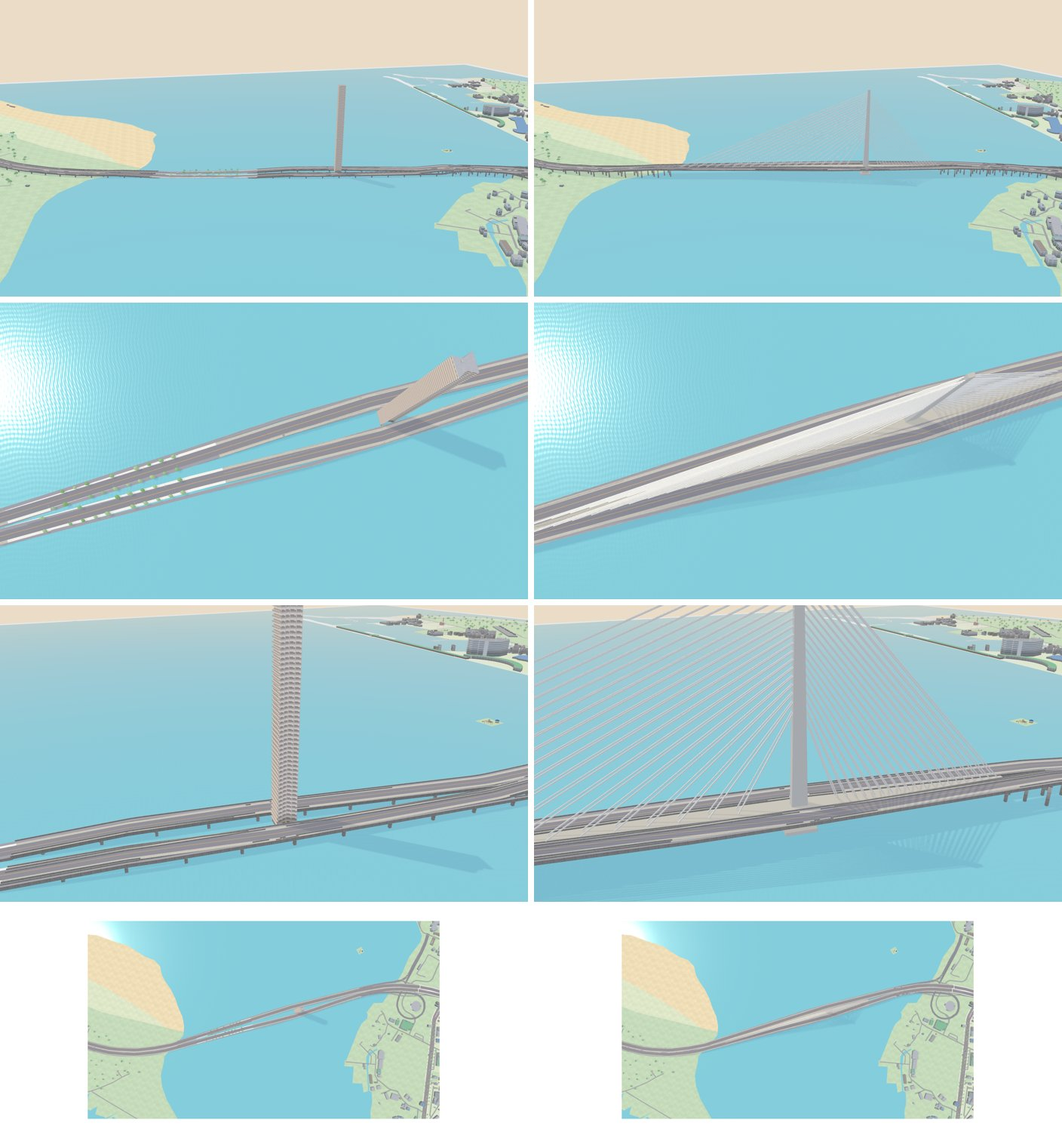
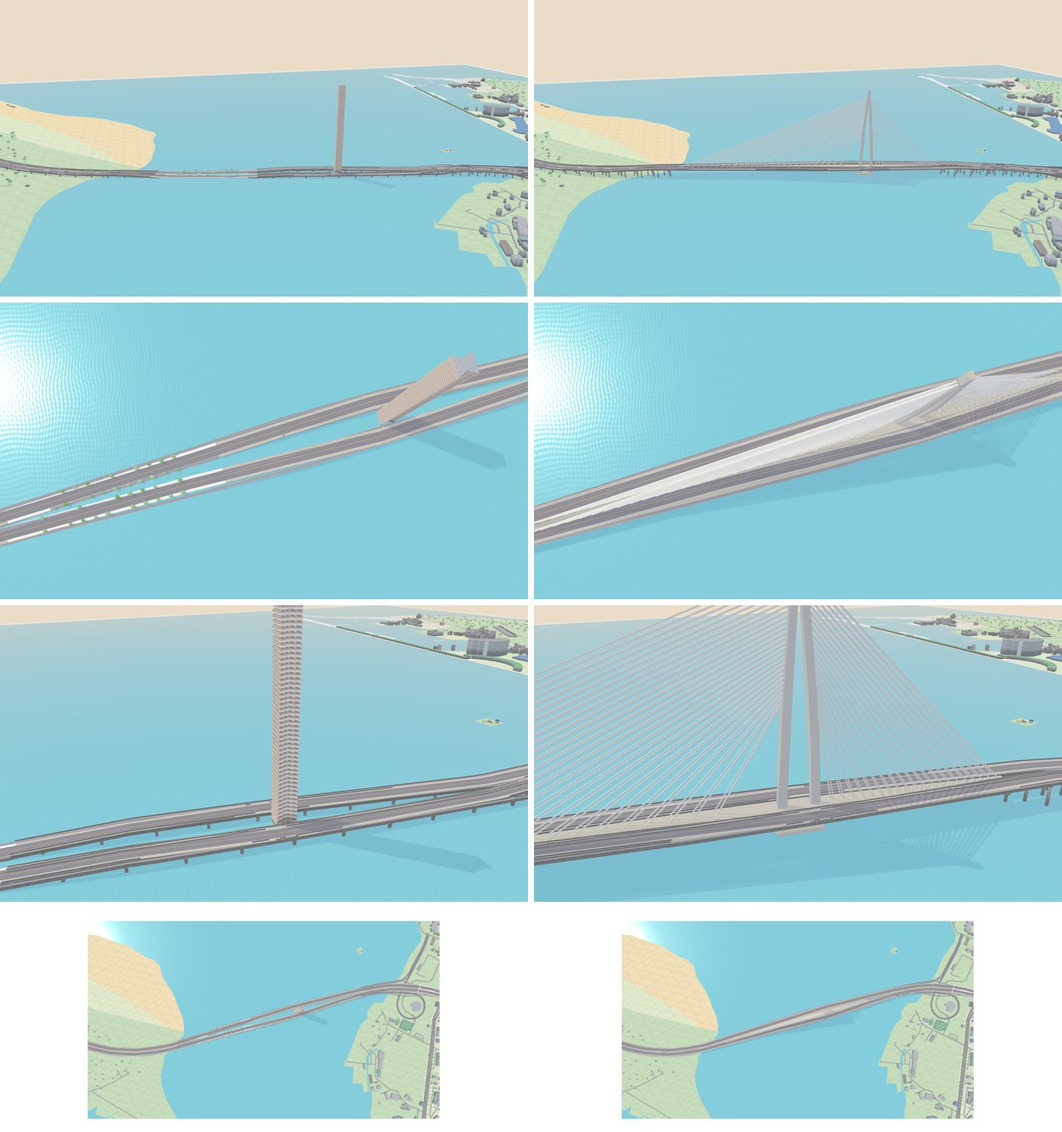
Danjiang Bridge: the mast and the fan of stays as the owner's earlier version drew them
Two legs apart along the bridge that lean together and meet at the top,
27 pairs of stays to the main span and 20 to the back span, from
OpenWorld's tamkang-bridge.js in the reference repository.

Claude-Session: https://claude.ai/code/session_01YGNNukvQKjyGq8vqEAr4hy

Changed region(s): [[0.5, 0.5213, 0.8438, 0.736], [0.8438, 0.3373, 0.9062, 0.368], [0.8125, 0.092, 0.8438, 0.1533]]

diff --git a/Sources/GamePresentation/Map3DCableStayedBridge.swift b/Sources/GamePresentation/Map3DCableStayedBridge.swift
@@ -1,3 +1,4 @@
+import Foundation
 import GameCore
 
 // Decision 873: a real cable-stayed bridge's mast and stays.
@@ -8,94 +9,143 @@ import GameCore
 // (decision 391). The mast stands where the two carriageways run widest
 // apart (OpenStreetMap, the same lines the base map's tiles are cut
 // from), its height and spans as the Directorate General of Highways
-// publishes them. As 青馬大橋's towers (decision 869), its heights are
+// publishes them, its mast and fan of stays as the owner's earlier
+// version drew them. As 青馬大橋's towers (decision 869), its heights are
 // kept over the road as the game draws it, each piece is measured from
 // the deck under it (so a chunk built apart draws what the whole scene
 // does), and the spans the stays carry stand on no pier.
 
 /// Decision 873: the mast and stays of a cable-stayed bridge: its mast at
 /// the bridge's first tower, its main span towards the second.
+///
+/// The mast's shape and the stays' fan are the owner's earlier 淡江大橋
+/// (`OpenWorld/reference_snapshot/play/src/world/tamkang-bridge.js` and
+/// `play/assets/bridge/manifest.json`'s `towerProfile` in the reference
+/// repository): two legs standing apart along the bridge that lean
+/// together and meet at the top, 27 pairs of stays to the main span and
+/// 20 to the back span.
 struct Map3DCableStays: Sendable {
     /// One stay: where it is anchored on the deck, metres from the mast
     /// (towards the main span's end, or behind the mast when negative),
-    /// and where it is held on the mast, metres over the road.
+    /// where it is held on the mast, metres over the road, and how far
+    /// from the mast's middle the leg's face is there.
     struct Stay: Sendable, Equatable {
         let anchor: Float
         let hold: Float
+        let start: Float
     }
 
-    /// The road's top over the sea where the stays carry it.
+    /// The road's top over the water where the stays carry it.
     let road: Float
     /// The mast's top over the road.
     let top: Float
-    /// The mast's half width across the bridge and half length along it,
-    /// at heights over the road, from the road up to its top.
-    let sections: [(height: Float, across: Float, along: Float)]
-    /// The same at the mast's foot.
-    let foot: (across: Float, along: Float)
-    /// The stays to a side in each plane.
-    let count: Int
+    /// Each leg's middle from the mast's at the water (`tower-
+    /// Profile.legHalfOffset`), and how fast the legs close
+    /// (`offsetExponent`).
+    let legApart: Float
+    let legCurve: Float
+    /// A leg's length along the bridge and width across it, at the water
+    /// and at the top (`widthBase`/`widthTaper`, `depthBase`/`depthTaper`).
+    let legAlong: (foot: Float, top: Float)
+    let legAcross: (foot: Float, top: Float)
+    /// The legs no wider than this across the bridge up to this height
+    /// over the road, their own width from the second height on
+    /// (`roadClearance`: the carriageways pass either side).
+    let waist: (across: Float, to: Float, free: Float)
+    /// Where the legs are one: its height down from the top, its width
+    /// across the bridge.
+    let crown: (height: Float, across: Float)
+    /// The pairs of stays to the main span and to the back span.
+    let count: (main: Int, back: Int)
     /// The lowest and the highest stay's hold on the mast, over the road.
     let holds: ClosedRange<Float>
-    /// The nearest and the farthest stay's anchorage from the mast: the
-    /// main span's and the back span's.
-    let mainAnchors: ClosedRange<Float>
-    let backAnchors: ClosedRange<Float>
+    /// The farthest stay's anchorage from the mast, each way.
+    let reach: (main: Float, back: Float)
     /// Each plane of stays from the bridge's middle: at the deck, and at
     /// the mast.
     let plane: (deck: Float, mast: Float)
-    /// How thick a stay is drawn (some 0.25 m; three times that here, to
-    /// be seen from the map's height).
+    /// How thick a stay is drawn (the earlier version's 0.68 m, a little
+    /// more here to be seen from the map's height).
     let cable: Float
 
-    /// 淡江大橋: a 200 m mast, the road some 20 m over the river at it;
-    /// 450 m and 175 m its spans.
+    /// 淡江大橋: a 200 m mast, the road 20 m over the river at it; 450 m
+    /// and 175 m its spans.
     static let danjiang = Map3DCableStays(
-        road: 20, top: 180, sections: [(0, 3.0, 6.0), (60, 2.6, 4.8), (120, 2.1, 3.6), (180, 1.6, 2.6)], foot: (3.8, 7.2),
-        count: 20, holds: 78...174, mainAnchors: 45...432, backAnchors: 30...168, plane: (4, 1.2), cable: 0.8)
+        road: 20, top: 180, legApart: 13, legCurve: 1.55, legAlong: (7.5, 4.1), legAcross: (11, 5.8),
+        waist: (4.8, 7, 60), crown: (16, 6.2), count: (27, 20), holds: 75...162, reach: (432, 168), plane: (4, 1.2), cable: 0.8)
 
-    /// A stay is drawn in pieces this long, each from the deck under it.
+    /// The deck between the carriageways is drawn in pieces this long.
     static let piece: Float = 25
+    /// A stay is drawn in pieces this long, each from the deck under it.
+    static let stayPiece: Float = 50
     /// A stay's anchorage over the road.
     static let anchorRise: Float = 1
     /// How far round the mast's middle no surveyed building is drawn.
     static let plot: Float = 25
     /// The deck between the carriageways, this far under the road's top.
     static let medianDrop: Float = 0.15
+    /// The nearest stay's anchorage, as a share of the farthest's, and
+    /// how the rest are spread (the earlier version's fan).
+    static let fan: (first: Float, curve: Float) = (0.10, 0.94)
+
+    /// How far up the mast `height` over the road is: 0 at the water, 1
+    /// at the top.
+    func share(at height: Float) -> Float { min(max((height + road) / (top + road), 0), 1) }
+
+    /// A leg at `height` over the road: its middle from the mast's along
+    /// the bridge, and its half length along and half width across.
+    func leg(at height: Float) -> (offset: Float, along: Float, across: Float) {
+        let t = share(at: height)
+        var across = legAcross.foot + (legAcross.top - legAcross.foot) * t
+        if height <= waist.to {
+            across = min(across, waist.across)
+        } else if height < waist.free {
+            across = min(across, waist.across + (across - waist.across) * (height - waist.to) / (waist.free - waist.to))
+        }
+        return (legApart * (1 - Float(pow(Double(t), Double(legCurve)))), (legAlong.foot + (legAlong.top - legAlong.foot) * t) / 2, across / 2)
+    }
 
     /// The stays of one plane: the main span's, the nearest first, then
     /// the back span's. The farther a stay is anchored, the higher it is
-    /// held.
+    /// held (the earlier version held the farthest lowest, so its stays
+    /// crossed; the bridge's do not).
     var stays: [Stay] {
-        [(mainAnchors, Float(1)), (backAnchors, -1)].flatMap { anchors, way in
-            (0..<count).map { index in
-                let share = count > 1 ? Float(index) / Float(count - 1) : 1
-                return Stay(anchor: way * (anchors.lowerBound + (anchors.upperBound - anchors.lowerBound) * share),
-                            hold: holds.lowerBound + (holds.upperBound - holds.lowerBound) * share)
+        [(reach.main, count.main, Float(1)), (reach.back, count.back, -1)].flatMap { reach, count, way in
+            (1...max(count, 1)).map { index in
+                let share = Float(index) / Float(max(count, 1))
+                let hold = holds.lowerBound + (holds.upperBound - holds.lowerBound) * share
+                let leg = leg(at: hold)
+                return Stay(anchor: way * reach * (Self.fan.first + (1 - Self.fan.first) * Float(pow(Double(share), Double(Self.fan.curve)))),
+                            hold: hold, start: leg.offset + leg.along)
             }
         }
+    }
+
+    /// How far along `stay` `distance` metres from the mast's middle is.
+    private func along(_ stay: Stay, _ distance: Float) -> Float {
+        min(max((distance - stay.start) / (abs(stay.anchor) - stay.start), 0), 1)
     }
 
     /// `stay`'s middle over the road, `distance` metres from the mast: a
     /// straight line from its hold down to its anchorage.
     func height(of stay: Stay, at distance: Float) -> Float {
-        stay.hold + (Self.anchorRise - stay.hold) * min(max(distance / abs(stay.anchor), 0), 1)
+        stay.hold + (Self.anchorRise - stay.hold) * along(stay, distance)
     }
 
     /// How far from the bridge's middle `stay` runs, `distance` metres
     /// from the mast.
     func across(of stay: Stay, at distance: Float) -> Float {
-        plane.mast + (plane.deck - plane.mast) * min(max(distance / abs(stay.anchor), 0), 1)
+        plane.mast + (plane.deck - plane.mast) * along(stay, distance)
     }
 
     /// The lengths `stay` is drawn in, metres from the mast: the same
     /// whichever chunk draws them.
     func pieces(of stay: Stay) -> [(from: Float, to: Float)] {
         let reach = abs(stay.anchor)
-        var pieces: [(from: Float, to: Float)] = [], from: Float = 0
+        var pieces: [(from: Float, to: Float)] = [], from = stay.start
         while from < reach - 0.5 {
             // The last piece takes what is left of a short one.
-            let to = reach - (from + Self.piece) < Self.piece / 3 ? reach : from + Self.piece
+            let to = reach - (from + Self.stayPiece) < Self.stayPiece / 3 ? reach : from + Self.stayPiece
             pieces.append((from, to))
             from = to
         }
@@ -147,16 +197,31 @@ extension Map3DScene.Builder {
             let ground = drawnGround(x: foot.x, z: foot.z), road = deck.road
             func at(_ height: Float) -> Map3DPoint { Map3DPoint(foot.x, height, foot.z) }
             let cap = min(ground + 3, road - 1)
-            built.addShaft(low: at(ground - 1), lowHalf: (stays.foot.along + 5, stays.foot.across + 5), high: at(cap),
-                           highHalf: (stays.foot.along + 5, stays.foot.across + 5), along: bridge.along, across: bridge.across, color: concrete, capped: true)
-            let first = stays.sections[0]
-            built.addShaft(low: at(cap), lowHalf: (stays.foot.along, stays.foot.across), high: at(road), highHalf: (first.along, first.across),
-                           along: bridge.along, across: bridge.across, color: concrete)
-            for (index, (lower, upper)) in zip(stays.sections, stays.sections.dropFirst()).enumerated() {
-                built.addShaft(low: at(road + lower.height), lowHalf: (lower.along, lower.across), high: at(road + upper.height),
-                               highHalf: (upper.along, upper.across), along: bridge.along, across: bridge.across, color: concrete,
-                               capped: index == stays.sections.count - 2)
+            let base = stays.leg(at: cap - road)
+            built.addShaft(low: at(ground - 1), lowHalf: (base.offset + base.along + 1.5, stays.legAcross.foot / 2 + 2.5), high: at(cap),
+                           highHalf: (base.offset + base.along + 1.5, stays.legAcross.foot / 2 + 2.5), along: bridge.along, across: bridge.across,
+                           color: concrete, capped: true)
+            // Two legs apart along the bridge, leaning together; one
+            // where they meet.
+            let crown = stays.top - stays.crown.height
+            var heights: [Float] = [cap - road, 0, stays.waist.to]
+            var height = stays.waist.to
+            while height < crown - 1 {
+                height = min(height + 12, crown)
+                heights.append(height)
             }
+            for (lower, upper) in zip(heights, heights.dropFirst()) where upper > lower {
+                let low = stays.leg(at: lower), high = stays.leg(at: upper)
+                for side in [Float(-1), 1] {
+                    built.addShaft(low: at(road + lower) + bridge.along * (side * low.offset), lowHalf: (low.along, low.across),
+                                   high: at(road + upper) + bridge.along * (side * high.offset), highHalf: (high.along, high.across),
+                                   along: bridge.along, across: bridge.across, color: concrete)
+                }
+            }
+            let meet = stays.leg(at: crown), peak = stays.leg(at: stays.top)
+            built.addShaft(low: at(road + crown), lowHalf: (meet.offset + meet.along, stays.crown.across / 2), high: at(road + stays.top),
+                           highHalf: (peak.offset + peak.along, stays.crown.across / 2), along: bridge.along, across: bridge.across,
+                           color: concrete, capped: true)
             mesh(at: foot) { $0.append(built) }
         }
 

diff --git a/Tests/GamePresentationTests/Map3DCableStayedBridgeTests.swift b/Tests/GamePresentationTests/Map3DCableStayedBridgeTests.swift
@@ -47,14 +47,15 @@ final class Map3DCableStayedBridgeTests: XCTestCase {
         XCTAssertLessThan(bridge.along.x, 0)
     }
 
-    /// The stays: as many to the main span as behind the mast, the
+    /// The stays: 27 pairs to the main span and 20 behind the mast (the
+    /// owner's earlier version of the bridge), the
     /// farther anchored the higher held, each a straight line from the
     /// mast down to the deck, drawn in pieces that leave no gap.
     func testTheStaysFanFromTheMast() throws {
         let look = try XCTUnwrap(Bridge.danjiang.stays)
         let stays = look.stays
-        XCTAssertEqual(stays.count, 2 * look.count)
-        XCTAssertEqual(stays.filter { $0.anchor > 0 }.count, look.count)
+        XCTAssertEqual(stays.count, 47)
+        XCTAssertEqual(stays.filter { $0.anchor > 0 }.count, 27)
         for side in [stays.filter { $0.anchor > 0 }, stays.filter { $0.anchor < 0 }] {
             for (near, far) in zip(side, side.dropFirst()) {
                 XCTAssertGreaterThan(abs(far.anchor), abs(near.anchor))
@@ -65,14 +66,17 @@ final class Map3DCableStayedBridgeTests: XCTestCase {
         XCTAssertGreaterThanOrEqual(try XCTUnwrap(stays.map(\.anchor).min()), -175)
         XCTAssertLessThan(try XCTUnwrap(stays.map(\.hold).max()), look.top)
         for stay in stays {
-            XCTAssertEqual(look.height(of: stay, at: 0), stay.hold)
+            XCTAssertEqual(look.height(of: stay, at: stay.start), stay.hold)
+            // Held on the face of the leg on its own side.
+            let leg = look.leg(at: stay.hold)
+            XCTAssertEqual(stay.start, leg.offset + leg.along, accuracy: 0.01)
             XCTAssertEqual(look.height(of: stay, at: abs(stay.anchor)), Map3DCableStays.anchorRise, accuracy: 0.01)
             XCTAssertEqual(look.across(of: stay, at: abs(stay.anchor)), look.plane.deck, accuracy: 0.01)
             let pieces = look.pieces(of: stay)
-            XCTAssertEqual(pieces.first?.from, 0)
+            XCTAssertEqual(pieces.first?.from, stay.start)
             XCTAssertEqual(try XCTUnwrap(pieces.last?.to), abs(stay.anchor), accuracy: 0.01)
             for (piece, next) in zip(pieces, pieces.dropFirst()) { XCTAssertEqual(piece.to, next.from) }
-            XCTAssertTrue(pieces.allSatisfy { $0.to - $0.from > 5 && $0.to - $0.from < 40 }, "\(pieces)")
+            XCTAssertTrue(pieces.allSatisfy { $0.to - $0.from > 5 && $0.to - $0.from < 70 }, "\(pieces)")
         }
     }
 
@@ -87,12 +91,18 @@ final class Map3DCableStayedBridgeTests: XCTestCase {
         // A carriageway each side of the mast, none through it.
         XCTAssertLessThan(deck.left, -10)
         XCTAssertGreaterThan(deck.right, 10)
-        var offset = -look.sections[0].across - 1
-        while offset <= look.sections[0].across + 1 {
-            let p = bridge.point(along: 0, across: offset)
-            let raised = builder.roadRise(at: Map3DBaseMap.Point(x: Double(p.x), z: Double(p.z)), along: (Double(bridge.along.x), Double(bridge.along.z)), onDeck: true)
-            XCTAssertFalse(raised.onBridge, "a carriageway through the mast, \(offset) m across")
-            offset += 0.5
+        // Its two legs stand apart along the bridge, each between the
+        // carriageways where it passes the road.
+        let leg = look.leg(at: 0)
+        XCTAssertGreaterThan(leg.offset, 10)
+        for station in [-leg.offset, 0, leg.offset] {
+            var offset = -leg.across - 1
+            while offset <= leg.across + 1 {
+                let p = bridge.point(along: station, across: offset)
+                let raised = builder.roadRise(at: Map3DBaseMap.Point(x: Double(p.x), z: Double(p.z)), along: (Double(bridge.along.x), Double(bridge.along.z)), onDeck: true)
+                XCTAssertFalse(raised.onBridge, "a carriageway through the mast, \(station) m along, \(offset) m across")
+                offset += 0.5
+            }
         }
         // A road bridge all the way under the stays.
         var station = bridge.hung.lowerBound
@@ -104,7 +114,7 @@ final class Map3DCableStayedBridgeTests: XCTestCase {
         builder.addSuspensionBridges()
         let added = (builder.meshes.values.reduce(0) { $0 + $1.indices.count } - before) / 3
         XCTAssertGreaterThan(added, 2_000)
-        XCTAssertLessThan(added, 8_000)
+        XCTAssertLessThan(added, 9_000)
         XCTAssertTrue(builder.nearMeshes.isEmpty || builder.nearMeshes.values.allSatisfy { mesh in
             !mesh.vertices.contains { $0.y > deck.road + 30 }
         }, "the stays are drawn from any distance")
@@ -114,16 +124,21 @@ final class Map3DCableStayedBridgeTests: XCTestCase {
         XCTAssertEqual(try XCTUnwrap(mast.max()), deck.road + look.top, accuracy: 0.5)
         XCTAssertEqual(try XCTUnwrap(all.map(\.y).max()), deck.road + look.top, accuracy: 0.5)
         XCTAssertLessThan(try XCTUnwrap(mast.min()), 4)
+        // Two legs apart at the road, one at the top.
+        let waist = all.filter { abs($0.y - deck.road) < 0.01 && abs($0.at.across) < 6 && abs($0.at.along) < 20 }.map { abs($0.at.along) }
+        XCTAssertGreaterThan(try XCTUnwrap(waist.min()), 8, "the legs stand apart at the road")
+        let crown = all.filter { abs($0.y - deck.road - look.top) < 0.01 }.map { abs($0.at.along) }
+        XCTAssertLessThan(try XCTUnwrap(crown.max()), 3, "the legs are one at the top")
         // The farthest stay each way: by the road at its anchorage, both
         // planes, and half way up half way along.
-        for anchor in [look.mainAnchors.upperBound, -look.backAnchors.upperBound] {
+        for anchor in [look.reach.main, -look.reach.back] {
             let here = try XCTUnwrap(builder.suspendedDeck(bridge, at: anchor))
             for side in [Float(-1), 1] {
                 XCTAssertTrue(all.contains { abs($0.at.along - anchor) < 1 && abs($0.at.across - side * look.plane.deck) < 1 && abs($0.y - here.road - Map3DCableStays.anchorRise) < 1 },
                               "the stay anchored at \(anchor), side \(side)")
             }
         }
-        let half = look.mainAnchors.upperBound / 2
+        let half = look.reach.main / 2
         XCTAssertTrue(all.contains { abs($0.at.along - half) < 13 && abs($0.at.across) < 5 && abs($0.y - deck.road - look.holds.upperBound / 2) < 8 })
         // One deck between the carriageways, a little under the road.
         let amid = all.filter { abs($0.at.along - 200) < 13 && abs($0.at.across) < 2 && abs($0.y - deck.road) < 0.5 }

diff --git a/docs/decisions/873.md b/docs/decisions/873.md
@@ -8,8 +8,8 @@
 
 改之前，台灣地圖上的淡江大橋是兩條貼在河面上的車道（決策 391：只跨河的橋留在地面），河中間立著一棟 200 m 高、有窗戶的「公寓大樓」（建物足跡檔把橋塔的外框當成一般建物畫）。
 
-1. **橋塔**（`Map3DCableStayedBridge.swift`）：一支向上收窄的混凝土塔柱，立在兩條車道之間，塔頂在路面上 180 m（塔高 200 m，路面離河面 20 m）。位置是 OpenStreetMap 兩條車道分得最開的那一點（25.17540, 121.41781；底圖的圖磚就是同一份資料切的，所以塔柱正好落在遊戲畫的兩條車道中間）。
-2. **斜拉索**：兩個索面、每面往主跨 20 根、往背跨 20 根，共 80 根。主跨 450 m 往八里，背跨 175 m 往淡水（公路局公布的跨度）。錨得越遠的掛得越高；主跨的索稀而長、背跨的密而陡，和實物一樣。每根索切成 25 m 一段，每一段用自己腳下的路面高度算，所以只載入跨中那一塊時畫出來的和整張一起畫時相同（`testASceneAmidTheSpanHoldsItsStays`）。索在遠景也畫：這座橋就是靠索認出來的。
+1. **橋塔**（`Map3DCableStayedBridge.swift`）：照作者舊版的淡江大橋（見 §3）：兩支塔腳沿橋的方向分開（塔底各離中心 13 m），往上收攏、在塔頂合成一支（「雙手合十」），立在兩條車道之間，塔頂在路面上 180 m（塔高 200 m，路面離河面 20 m）。塔腳過路面的那一段收窄到 4.8 m 寬，車道從兩側過（舊版同樣的做法）。位置是 OpenStreetMap 兩條車道分得最開的那一點（25.17540, 121.41781；底圖的圖磚就是同一份資料切的，所以塔柱正好落在遊戲畫的兩條車道中間）。
+2. **斜拉索**：照舊版的扇形：兩個索面，往八里（主跨）27 對、往淡水（背跨）20 對，共 94 根；各掛在自己那一側塔腳的外面，橋面上的錨點照舊版的間距（最近的在最遠的一成處）。主跨 450 m 往八里，背跨 175 m 往淡水（公路局公布的跨度）。錨得越遠的掛得越高；主跨的索稀而長、背跨的密而陡，和實物一樣。每根索切成 50 m 一段，每一段用自己腳下的路面高度算，所以只載入跨中那一塊時畫出來的和整張一起畫時相同（`testASceneAmidTheSpanHoldsItsStays`）。索在遠景也畫：這座橋就是靠索認出來的。
 3. **橋面離開河面**（`Map3DRoadBridge.swift`）：索吊著的範圍（塔往淡水 175 m、往八里 450 m）橋面在河面上 20 m（主跨下的通航淨高），兩端照原本的坡度（5%）接回引道。做法是決策 391 給國道最高橋梁用的「橋面高度的下限」加一個「在這個半徑內不降」（`Bound.flat`），沿橋的中線每 25 m 放一個。其他只跨河的橋照舊留在地面。
 4. **兩條車道之間補上橋面**：實物是一整片 44–71 m 寬的橋面，遊戲畫的是分開的車道，索會錨在半空中。索吊著的範圍內，在兩條車道外緣之間補一片比路面低 15 cm 的橋面。
 5. **吊著的地方不立墩**：沿用決策 869 的 `hangsFromCables`，主跨與背跨下面沒有墩；兩端的引橋照舊有墩。
@@ -23,7 +23,7 @@
 | 角度 | 理由 | 分數（1–5） |
 | --- | --- | ---: |
 | 玩家 | 淡江大橋在遊戲裡已經是景點（`AttractionCatalog` s25），淡海輕軌到漁人碼頭就看得到；改之前是河面上的兩條線加一棟怪樓 | 4 |
-| 鐵道迷 | 公路橋，但中央留了輕軌的路廊；塔位、跨度、塔高、通航淨高照公布的數字，索的根數與塔柱斷面是照照片估的，寫明 | 3 |
+| 鐵道迷 | 公路橋，但中央留了輕軌的路廊；塔位、跨度、塔高、通航淨高照公布的數字；塔形與索的根數照作者舊版（舊版自己註明是遊戲的詮釋，不是竣工圖） | 3 |
 | 開發 | 接在決策 869 的程式旁，共用橋面查詢、不立墩與分塊的做法；多動一處橋面高度（只在這座橋的範圍內） | 3 |
 | 美術 | 現有色票兩色；斜看時索面的扇形認得出來；正上方看只剩一條白帶與影子 | 4 |
 | 音樂 | 無 | 1 |
@@ -38,8 +38,10 @@
 
 | 來源 | 找到什麼 | 用在哪 |
 | --- | --- | --- |
-| 作者舊版模型目錄 `~/SwiftRailMac/assets/model-catalog/catalog.csv`（15,812 個） | 細分類「橋樑」174 個、「高架橋段」287 個、「天橋或連通道」63 個全部看過描述；另用關鍵字（拱、斜張、斜拉、吊橋、懸索、橋塔、鋼纜、鋼索、主塔、桁架、鐵橋）搜全部分類，473 個符合，其中橋樑 89、高架橋段 16、地標或特殊 31、天橋 5。有通用的鋼拱橋（200 m、110 m 兩種）、桁架鐵路橋段（20 m、40 m）、懸臂桁架橋、懸索吊橋段、石拱橋、平轉橋；**沒有斜張橋，也沒有台灣任何一座具名的橋** | 淡江大橋沒有可用的；鋼拱與桁架那幾套可以當關渡大橋、西螺大橋、下淡水溪鐵橋的參考（評分檔已寫） |
-| `a91453/railway-reference-private` | 搜「淡江大橋」「關渡大橋」「新北大橋」「高屏溪斜張」「碧潭吊橋」：只有景點名單、公車路線名與 OSM 路名，沒有橋的幾何或模型 | 沒有可用的 |
+| 作者舊版模型目錄 `~/SwiftRailMac/assets/model-catalog/catalog.csv`（15,812 個） | 細分類「橋樑」174 個、「高架橋段」287 個、「天橋或連通道」63 個全部看過描述；另用關鍵字（拱、斜張、斜拉、吊橋、懸索、橋塔、鋼纜、鋼索、主塔、桁架、鐵橋）搜全部分類，473 個符合，其中橋樑 89、高架橋段 16、地標或特殊 31、天橋 5。有通用的鋼拱橋（200 m、110 m 兩種）、桁架鐵路橋段（20 m、40 m）、懸臂桁架橋、懸索吊橋段、石拱橋、平轉橋；這份目錄裡還沒找到斜張橋或具名的台灣橋（作者的淡江大橋不在這份目錄，在參考庫，見下一列） | 淡江大橋沒有可用的；鋼拱與桁架那幾套可以當關渡大橋、西螺大橋、下淡水溪鐵橋的參考（評分檔已寫） |
+| `a91453/railway-reference-private` `OpenWorld/reference_snapshot/play/src/world/tamkang-bridge.js`、`play/assets/bridge/manifest.json`（作者舊版的淡江大橋；另有 Blender 做的 `tower.glb` 等零件） | 塔形（`legOffset`：13 × (1 − t^1.55)；`legSize`：沿橋 7.5 − 3.4t、橫向 11 − 5.2t；塔頂 16 m 合一；過路面處收窄 4.8 m）、索（八里 27 對、淡水 20 對，錨距 `span × (0.10 + 0.90 f^0.94)`，掛點在路面上 75–162 m）、主跨 450、背跨 175、塔高 200、淨高 20 | `Map3DCableStays.danjiang`（`legApart`、`legCurve`、`legAlong`、`legAcross`、`waist`、`crown`、`count`、`holds`、`fan`）、`leg(at:)`、`stays`。單位都是公尺，沒有換算 |
+| 同上，和舊版不同的三處（刻意的） | 舊版最遠的索掛得最低，索會交叉；舊版的索錨在橋面兩側 16.5 m；舊版的橋面、邊梁、燈、欄杆、塔的 Blender 模型 | 改成越遠掛越高（照片上索不交叉）；錨在兩條車道之間（遊戲的車道位置來自底圖，中間才是空的）；橋面用遊戲自己的公路橋，Blender 模型沒搬（跨分塊、要貼著算出來的路面，同決策 869 §2） |
+| `a91453/railway-reference-private` 其他 | 第一次只用中文「淡江大橋」搜內容，只找到景點名單與路名，**漏了檔名是英文 `tamkang-bridge.js` 的這一份**，作者指出後才找到。「關渡大橋」「新北大橋」「高屏溪斜張」「碧潭吊橋」用中文、英文、拼音搜檔名與內容，還沒找到橋的幾何或模型 | 教訓寫在素材庫 `docs/studio/lessons/danjiang-bridge.md` |
 | OpenStreetMap（osmtoday.com 的台灣整包檔，2026-11-18 下載；ODbL，已在 `DataSourceCredits`） | 淡江大橋兩條車道的中線與橋的外框；台灣標了結構的橋 264 座（斜張 15、懸索 93、拱 33、桁架 6） | 塔位、橋的方向（→ `Map3DSuspensionBridge.danjiang.towers`）；評分檔的候選名單 |
 | 公路局公布的數字（淡江大橋網站與新聞稿，維基百科條目轉述） | 主橋 920 m、主跨 450 m、背跨 175 m、塔高 200 m、橋寬 44–71 m、通航淨高 20 m | `Map3DCableStays.danjiang` 的 `road`、`top`、跨度 |
 | `Map3DSuspensionBridge`（決策 869，#2468） | 橋面查詢、不立墩、每段用腳下資料、方桿 | 直接沿用 |
@@ -56,12 +58,13 @@
 - 第 1 輪：塔與索立起來，橋面抬到 20 m；毛病：旁邊還站著那棟 200 m 的「公寓大樓」；索太細，1 公里外幾乎看不見。
 - 第 2 輪：不畫橋塔的建物足跡；索從 0.5 m 加粗到 0.8 m；毛病：塔柱比照片細。
 - 第 3 輪：塔柱加粗（路面處 12 × 6 m，塔頂 5.2 × 3.2 m）。
+- 第 4 輪（作者：「淡江大橋我之前在隱私資料夾不是做過了」）：單支直柱改成舊版的雙腿合十塔，索改成舊版的 27 對與 20 對。側看是一個細長的倒 V，比直柱像照片。
 
 **還有哪裡不好**
 
 1. 從正上方看（遊戲拉遠的鏡頭）只看得到中央一條白帶、塔的影子與索的影子，塔本身只是一個小方塊；要斜看才認得出來。
 2. 索是近白色的方桿，在遊戲打平的光線下偏灰，沒有實物那麼白。
-3. 索的根數（每面每邊 20 根）、掛點高度、塔柱斷面是照照片估的，不是圖說上的數字；塔柱是四角柱，實物是有弧度的。
+3. 塔形與索的根數是作者舊版的詮釋，不是圖說上的數字；塔腳是一段段的四角柱，實物是有弧度的。
 4. 補的橋面只到索吊著的範圍；再往兩端，兩條車道之間仍是空的。橋寬照遊戲畫的車道（約 40–60 m），不是實物的 44–71 m。
 5. 引道的坡是遊戲的 5%，橋面從 20 m 降回地面要 400 m，淡水端的匝道比實物高。
 6. 夜裡不亮。

diff --git a/docs/art/tw-bridges-2026-11-18/README.md b/docs/art/tw-bridges-2026-11-18/README.md
@@ -3,6 +3,6 @@
 `overview.jpg`：左邊是改前（`main` 加 #2468），右邊是改後，同一個鏡頭。由上到下：側面全景、遊戲鏡頭（520 m）、橋塔近看、遊戲大小（1,300 m，手機畫面的大小）。
 
 - 重建：這個 PR 的 commit，`tools/map3d-preview`（`MAP3D_WORLD=island MAP3D_AT=25.1754:121.4178 MAP3D_BASEMAP=1 MAP3D_FOOTPRINTS=1 MAP3D_HEIGHTS=1 MAP3D_LANDCOVER=1 MAP3D_CROP=-50:150:1300`，鏡頭 `side:-50:150:1100:285:60:72;game:-30:120:520:300;mast:0:0:330:300:60:68;small:-30:120:1300:300`）。改前的圖是把 `Map3DSuspensionBridge.all` 改回只有青馬再拍的。
-- 形狀的來源：橋塔位置取 OpenStreetMap 兩條車道分得最開的地方（和底圖同一份資料，ODbL），跨度與塔高取公路局公布的數字；程式是本專案自己的。
+- 形狀的來源：塔形與索的配置照作者舊版的淡江大橋（參考庫 `OpenWorld/reference_snapshot/play/src/world/tamkang-bridge.js`）；橋塔位置取 OpenStreetMap 兩條車道分得最開的地方（和底圖同一份資料，ODbL），跨度與塔高取公路局公布的數字。
 - 圖是預覽工具拍的，不是 Metal 或實機。圖裡不含照片。
 - 每一輪改了什麼、還有哪裡不好：`docs/decisions/873.md` §4。

diff --git a/docs/handoff/TW-BRIDGES.md b/docs/handoff/TW-BRIDGES.md
@@ -31,3 +31,7 @@ MAP3D_DUMP=<dir>/a swift test --skip-build --filter Map3DPreviewDump
 
 - Metal 與實機沒看過。下一版 TestFlight 請在台灣地圖的淡水漁人碼頭旁看淡江大橋：斜看要看得到塔與索、橋下沒有墩、河中央沒有那棟高樓。
 - `Bound.flat` 只用在淡江大橋；其他橋的高度沒有變（`Map3DRoadBridgeTests` 全過）。
+
+## 後來（同一天）：改照作者舊版
+
+作者指出淡江大橋他做過：參考庫 `OpenWorld/reference_snapshot/play/src/world/tamkang-bridge.js`（程式）與 `play/assets/bridge/`（Blender 零件）。塔與索已改成那一版的雙腿合十塔與 27 對、20 對的扇形（決策 873 §3 的對照表）。同一個資料夾還有日月潭（`play/assets/sunmoon/`：船、碼頭、涼亭、廟、纜車，`sunmoon-*.js`），還沒搬。之後做別的地標先用英文、拼音與中文搜檔名。
